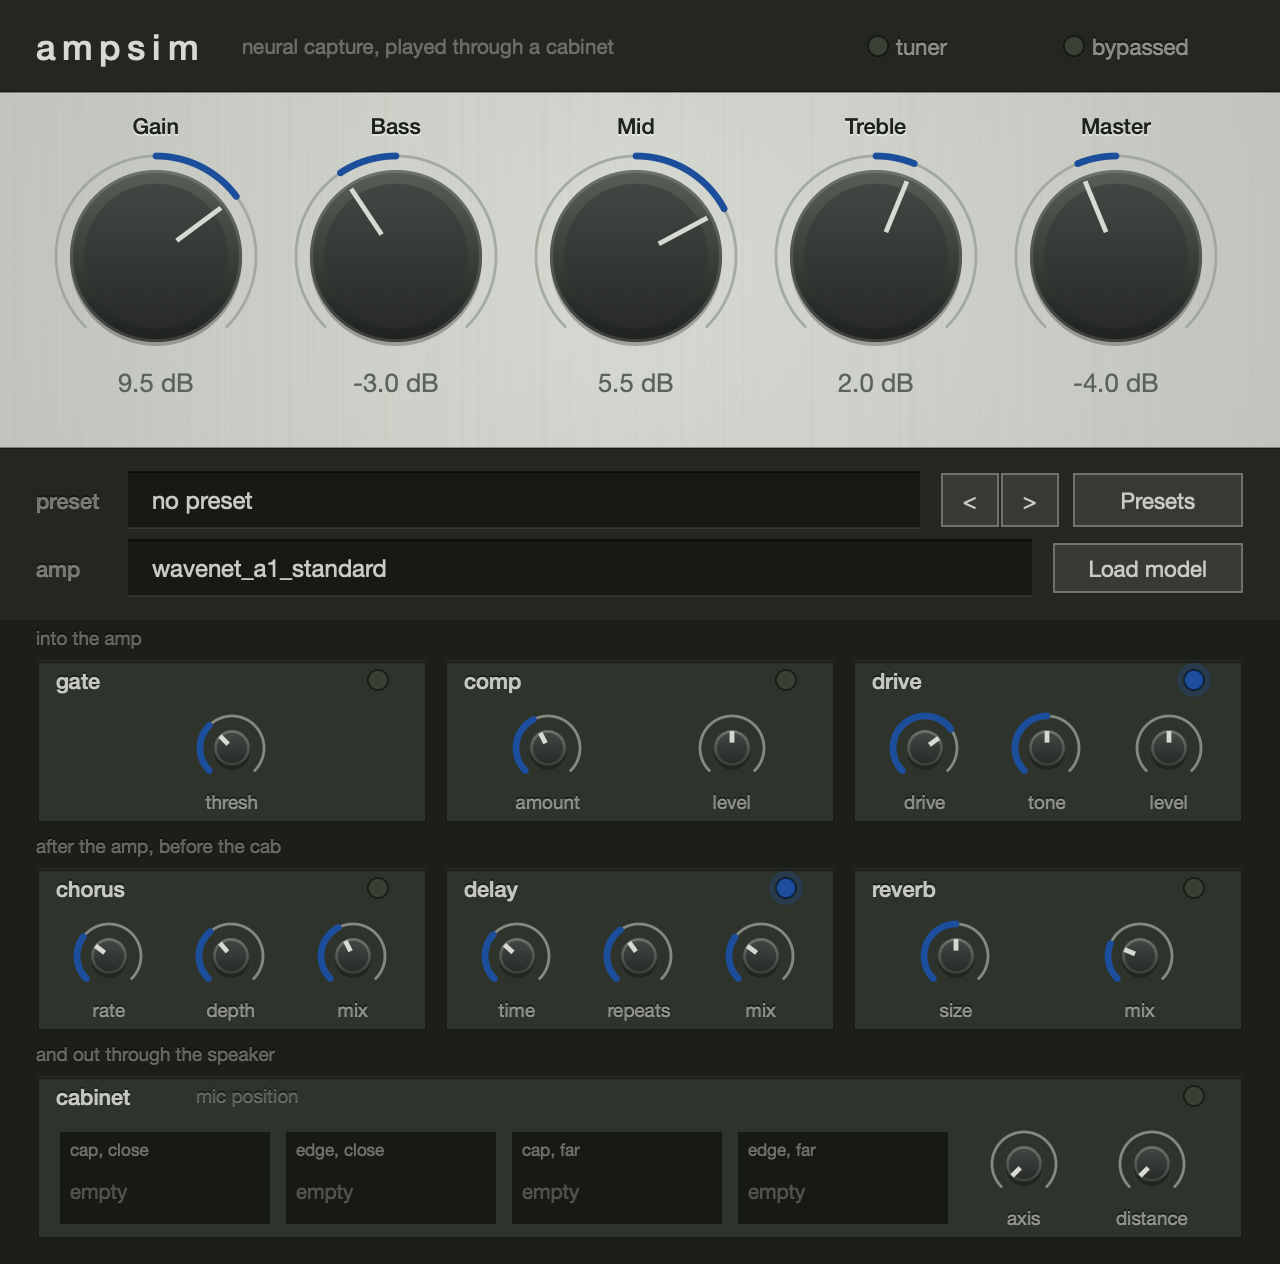
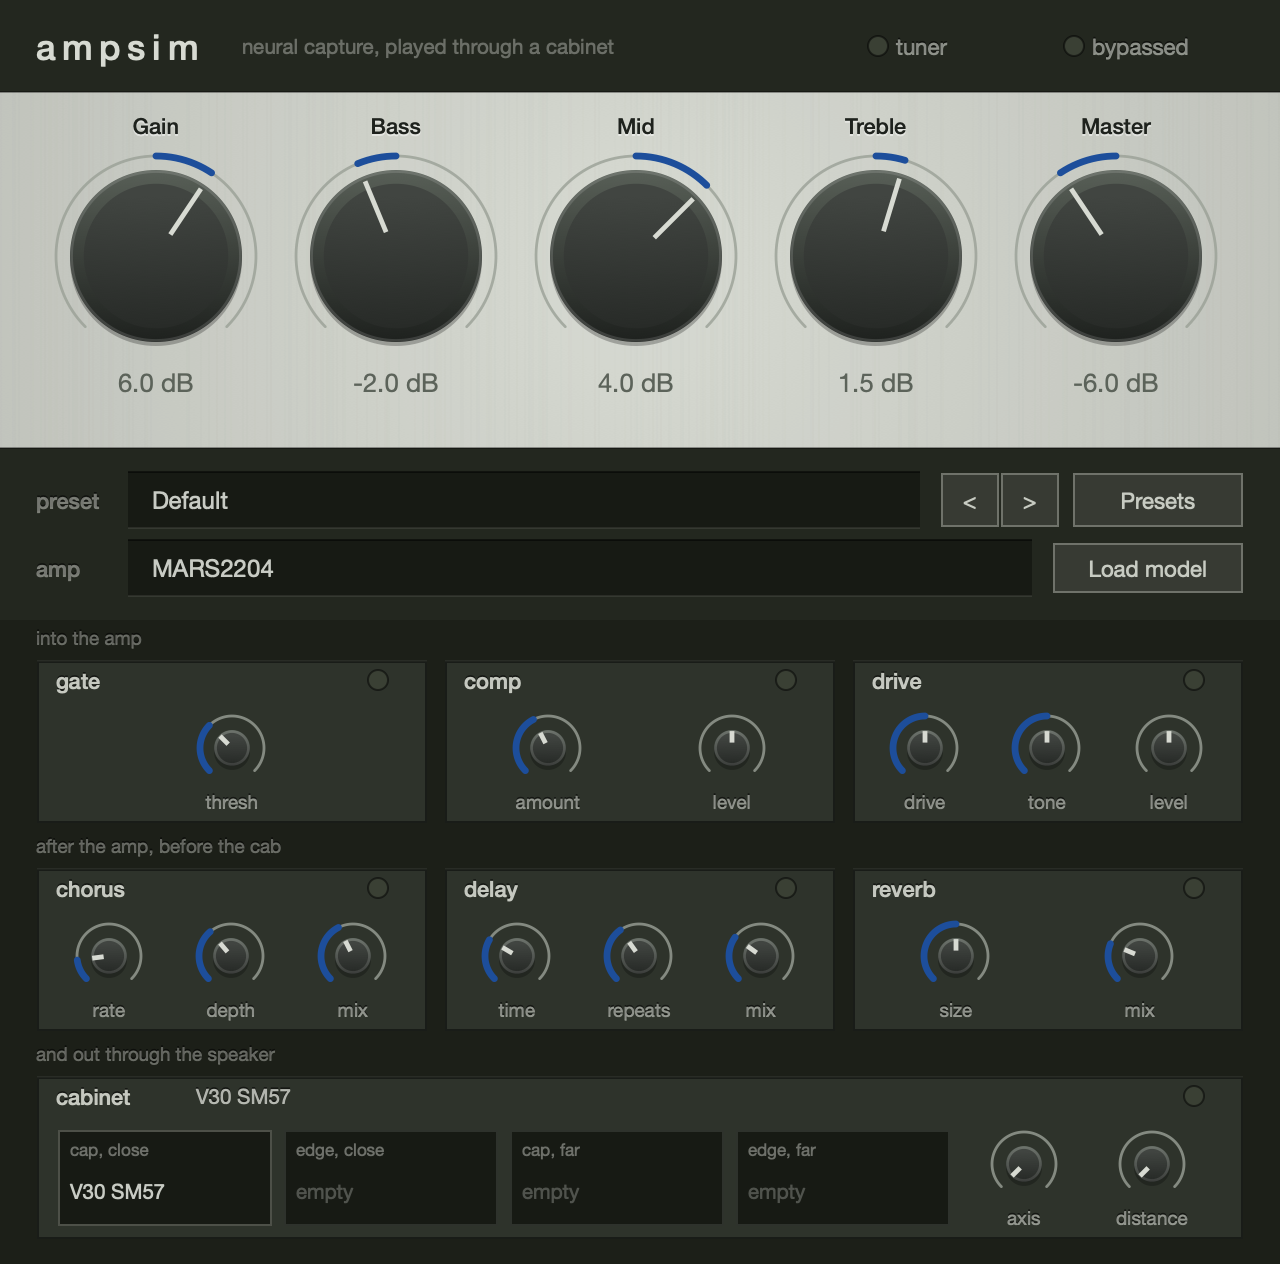
Name what is loaded: Default, MARS2204, V30 SM57
The preset field said "no preset" when nothing had been chosen, which reads as
an absence; the state a fresh instance starts in is a usable tone, so it says
"Default".

The cabinet row said "mic position" beside its name, so the cab was the one
thing on the panel that did not tell you what was in it. It now names the
loaded capture, the way the preset and amp rows above it do, and says how many
are in play when more than one corner is filled.

The four corners and the position controls are unchanged.

Also refreshes the README screenshot, which still showed the empty state from
before anything was bundled.

diff --git a/src/ui/CabinetRow.cpp b/src/ui/CabinetRow.cpp
@@ -147,13 +147,39 @@ void CabinetRow::paint (juce::Graphics& g)
                                   AmpLookAndFeel::panelFont (13.0f, true),
                                   AmpPalette::enamel.withAlpha (0.9f));
 
+    // Name the cabinet here, the way the rows above name the preset and the amp. With more than
+    // one corner filled there is no single name to give, so it says how many are in play instead.
     const auto error = processorRef.getImpulseResponseError();
 
-    AmpLookAndFeel::drawRailText (g, error.isNotEmpty() ? error : "mic position",
+    const auto describeLoaded = [this]
+    {
+        juce::String firstName;
+        auto count = 0;
+
+        for (int slot = 0; slot < CabSim::numSlots; ++slot)
+        {
+            const auto file = processorRef.getImpulseResponseFile ((CabSim::Slot) slot);
+
+            if (file == juce::File())
+                continue;
+
+            ++count;
+
+            if (firstName.isEmpty())
+                firstName = file.getFileNameWithoutExtension();
+        }
+
+        if (count == 0)  return juce::String ("no cab loaded");
+        if (count == 1)  return firstName;
+
+        return firstName + " + " + juce::String (count - 1) + " more";
+    };
+
+    AmpLookAndFeel::drawRailText (g, error.isNotEmpty() ? error : describeLoaded(),
                                   nameRow, juce::Justification::centredLeft,
-                                  AmpLookAndFeel::panelFont (11.0f),
+                                  AmpLookAndFeel::panelFont (12.0f),
                                   error.isNotEmpty() ? AmpPalette::attention.brighter (0.35f)
-                                                     : AmpPalette::enamel.withAlpha (0.35f));
+                                                     : AmpPalette::enamel.withAlpha (0.8f));
 }
 
 void CabinetRow::resized()

diff --git a/src/ui/PresetRow.cpp b/src/ui/PresetRow.cpp
@@ -32,7 +32,9 @@ void PresetRow::updateContents()
 {
     const auto name = presets.getCurrentName();
 
-    displayed = name.isEmpty() ? "no preset" : name;
+    // "Default" rather than "no preset": the state a fresh instance starts in is a usable tone,
+    // not an absence of one.
+    displayed = name.isEmpty() ? "Default" : name;
     repaint();
 }
 
